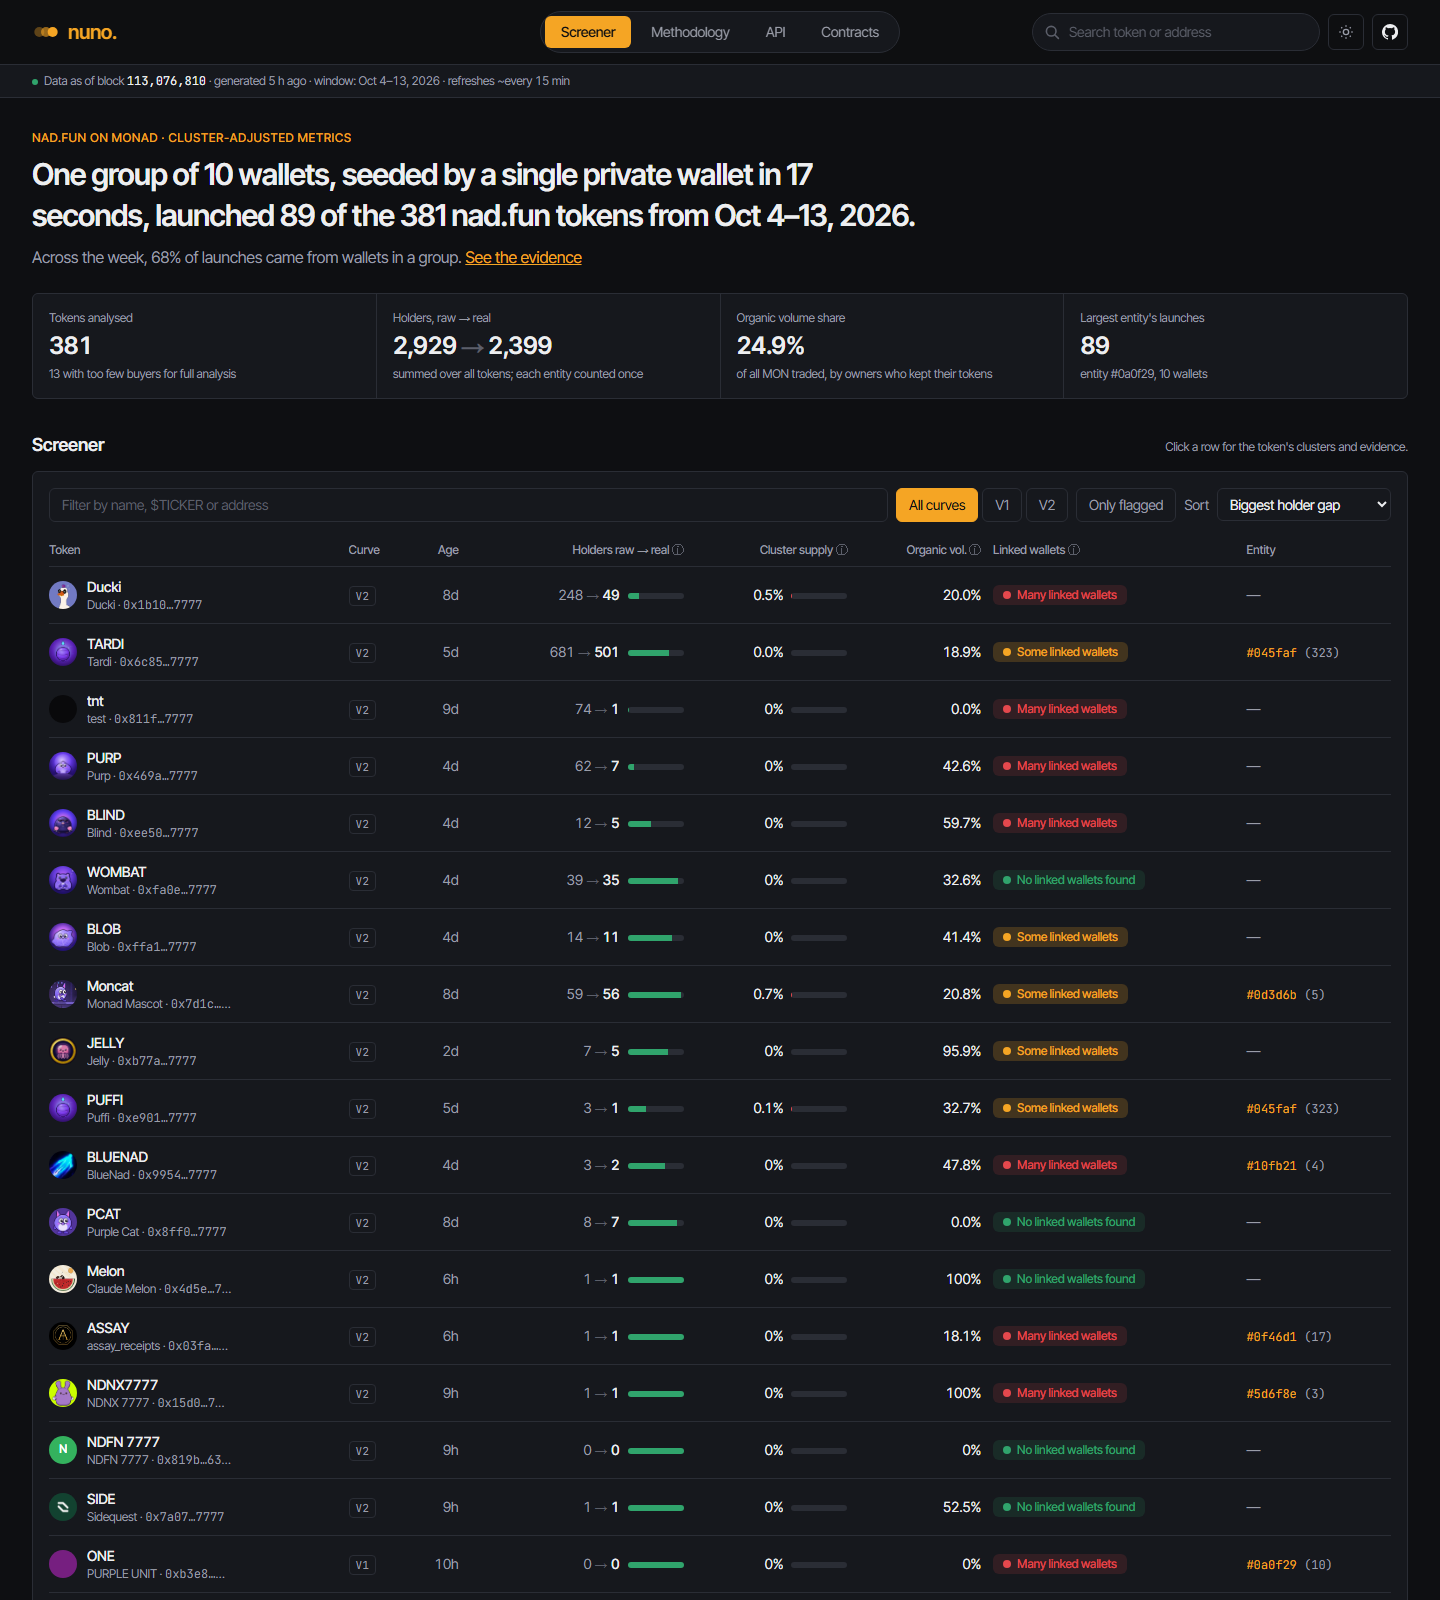
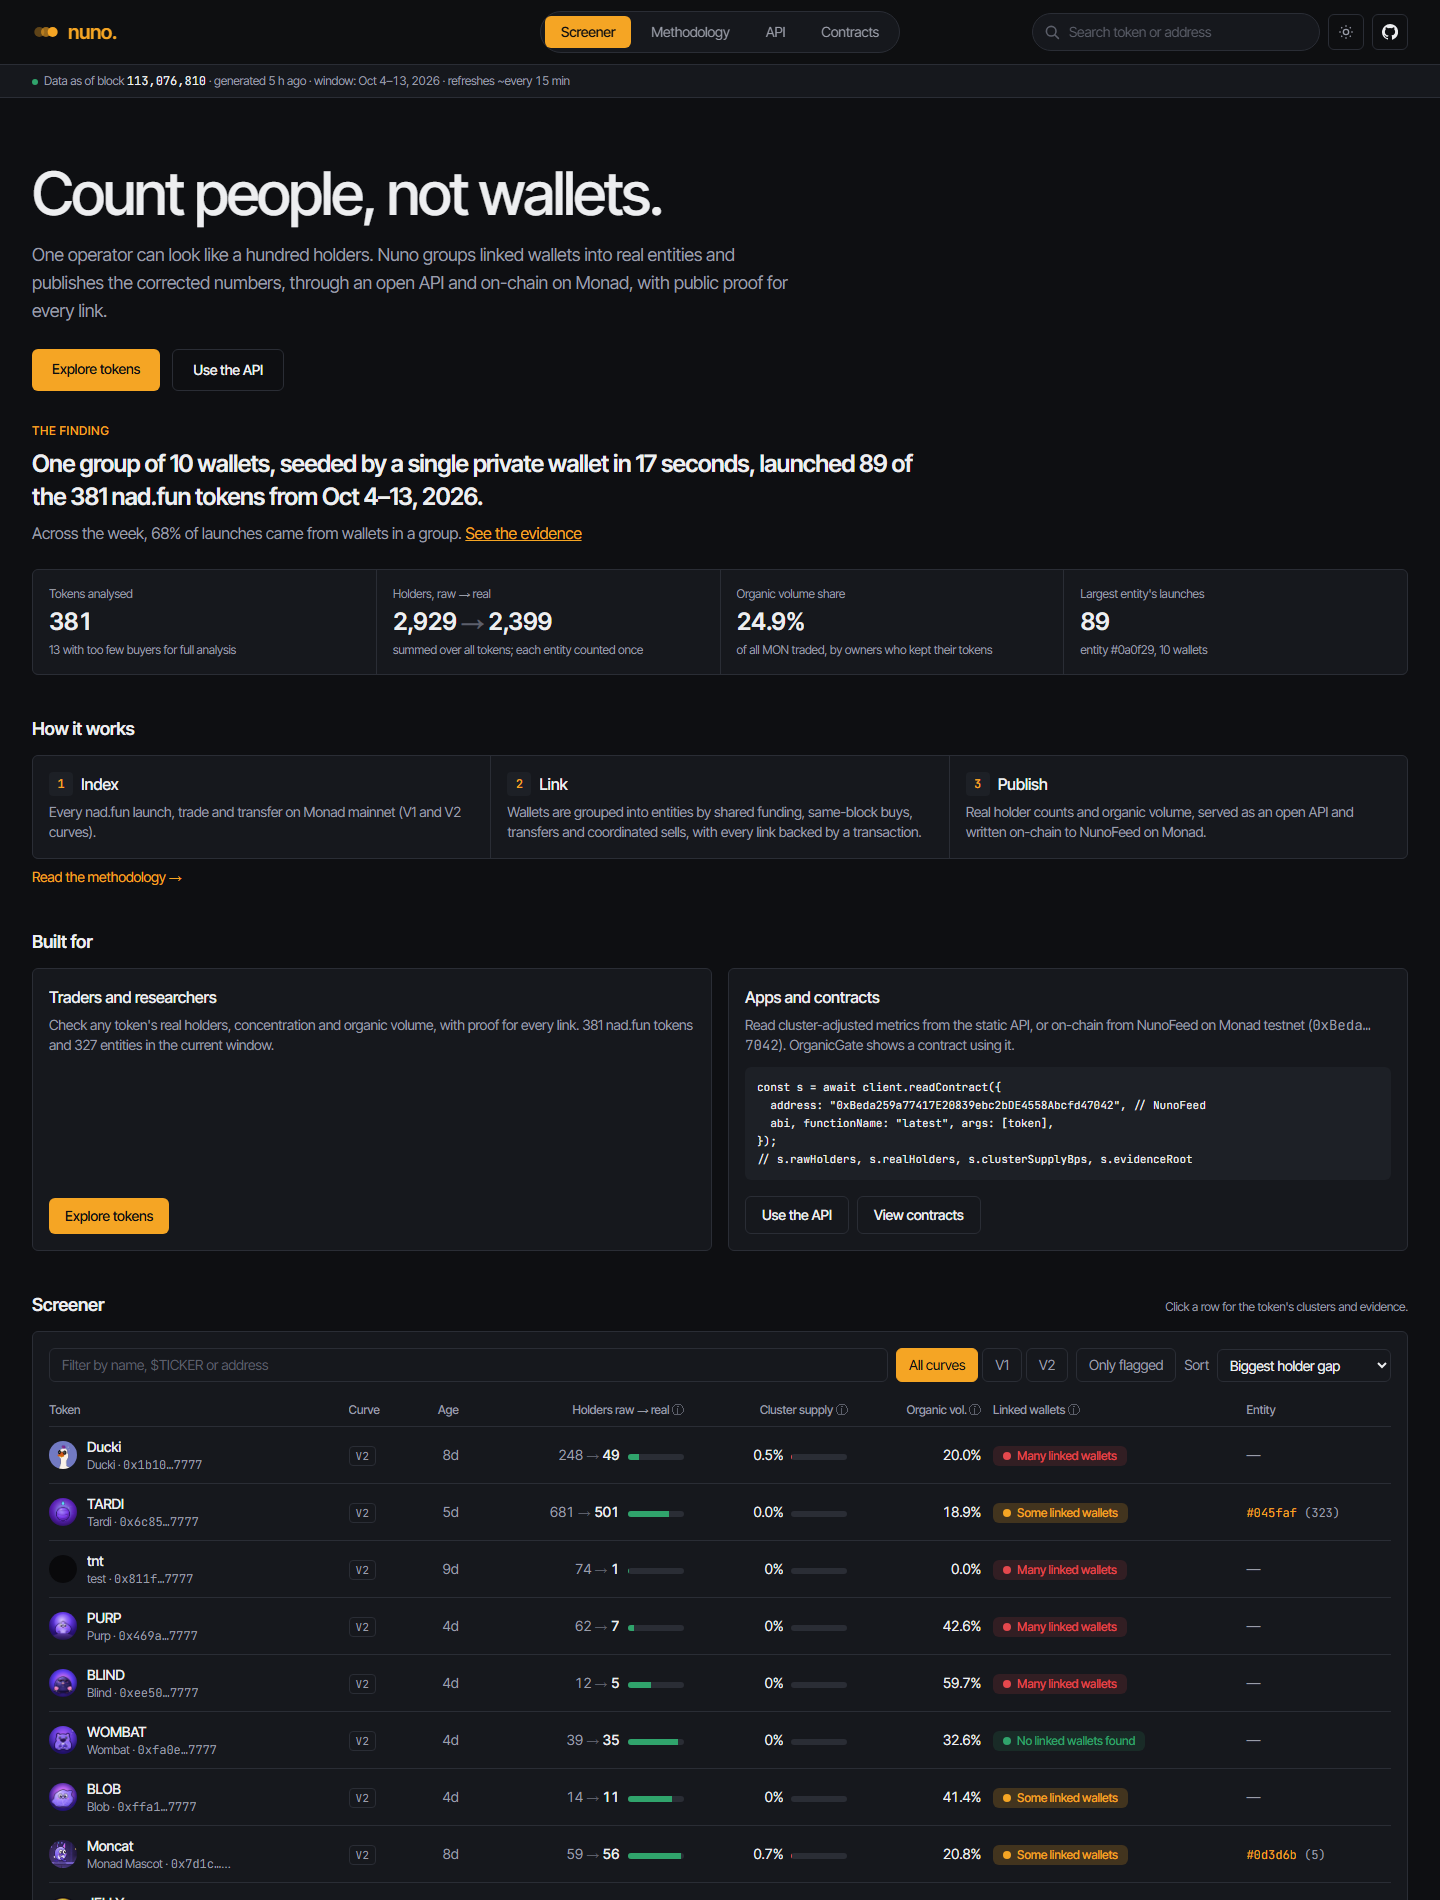
home: hybrid layout with how-it-works and built-for sections

diff --git a/apps/web/app/_views/home.tsx b/apps/web/app/_views/home.tsx
@@ -2,15 +2,23 @@ import Link from "next/link";
 import { api, type Cluster } from "@/lib/api";
 import { computeFinding } from "@/lib/finding";
 import { SUBLINE, TAGLINE } from "@/lib/copy";
-import { pct } from "@/lib/format";
+import { testnetDeployment } from "@/lib/deployments";
+import { pct, short } from "@/lib/format";
 import { rows } from "@/lib/verdict";
 import { SortableTable } from "./sortable";
 
 const n = (v: number) => v.toLocaleString("en-US");
 
+const STEPS: Array<[string, string]> = [
+  ["Index", "Every nad.fun launch, trade and transfer on Monad mainnet (V1 and V2 curves)."],
+  ["Link", "Wallets are grouped into entities by shared funding, same-block buys, transfers and coordinated sells, with every link backed by a transaction."],
+  ["Publish", "Real holder counts and organic volume, served as an open API and written on-chain to NunoFeed on Monad."],
+];
+
 /** Home: one verified headline from the export, four stat tiles, then the screener. */
 export function Home() {
   const meta = api.meta("live");
+  const dep = testnetDeployment();
   const tokens = api.tokens("live");
   const all = rows("live");
   const clusters = api.clusterIds("live").map((id) => api.cluster(id, "live")).filter((c): c is Cluster => c !== null);
@@ -60,7 +68,56 @@ export function Home() {
           ))}
         </dl>
       </section>
-      <section id="screener" aria-labelledby="screener-title" className="mt-8 scroll-mt-28">
+      <section aria-labelledby="how" className="mt-10">
+        <h2 id="how" className="text-lg font-semibold">How it works</h2>
+        <ol className="mt-3 grid gap-px overflow-hidden rounded-md border border-[var(--line)] bg-[var(--line)] md:grid-cols-3">
+          {STEPS.map(([title, body], i) => (
+            <li key={title} className="bg-[var(--surface)] p-4">
+              <p className="flex items-center gap-2 font-medium">
+                <span className="mono flex h-6 w-6 items-center justify-center rounded bg-[var(--panel)] text-xs text-[var(--accent-text)]">{i + 1}</span>
+                {title}
+              </p>
+              <p className="mt-1.5 text-sm text-[var(--muted)]">{body}</p>
+            </li>
+          ))}
+        </ol>
+        <Link href="/methodology/" className="mt-2 inline-block text-sm text-[var(--accent-text)] hover:underline">Read the methodology →</Link>
+      </section>
+
+      <section aria-labelledby="for" className="mt-10">
+        <h2 id="for" className="text-lg font-semibold">Built for</h2>
+        <div className="mt-3 grid gap-4 lg:grid-cols-2">
+          <div className="flex flex-col rounded-md border border-[var(--line)] bg-[var(--surface)] p-4">
+            <p className="font-medium">Traders and researchers</p>
+            <p className="mt-1.5 text-sm text-[var(--muted)]">
+              Check any token&apos;s real holders, concentration and organic volume, with proof for every link. {n(all.length)} nad.fun tokens and{" "}
+              {n(meta?.counts.entities ?? 0)} entities in the current window.
+            </p>
+            <div className="mt-auto pt-4">
+              <a href="#screener" className="inline-block rounded-md bg-[var(--accent)] px-4 py-2 text-sm font-medium text-[var(--c-accent-ink)] hover:opacity-90">Explore tokens</a>
+            </div>
+          </div>
+          <div className="flex min-w-0 flex-col rounded-md border border-[var(--line)] bg-[var(--surface)] p-4">
+            <p className="font-medium">Apps and contracts</p>
+            <p className="mt-1.5 text-sm text-[var(--muted)]">
+              Read cluster-adjusted metrics from the static API, or on-chain from NunoFeed{dep ? <> on Monad testnet (<span className="mono">{short(dep.NunoFeed)}</span>)</> : null}. OrganicGate shows a contract using it.
+            </p>
+            {dep ? (
+              <pre className="mono mt-3 overflow-x-auto rounded-md bg-[var(--panel)] p-3 text-[11px] leading-relaxed">{`const s = await client.readContract({
+  address: "${dep.NunoFeed}", // NunoFeed
+  abi, functionName: "latest", args: [token],
+});
+// s.rawHolders, s.realHolders, s.clusterSupplyBps, s.evidenceRoot`}</pre>
+            ) : null}
+            <div className="mt-auto flex flex-wrap gap-2 pt-4 text-sm">
+              <Link href="/developers/" className="rounded-md border border-[var(--line)] px-4 py-2 font-medium hover:border-[var(--accent)] hover:text-[var(--accent-text)]">Use the API</Link>
+              <Link href="/contracts/" className="rounded-md border border-[var(--line)] px-4 py-2 font-medium hover:border-[var(--accent)] hover:text-[var(--accent-text)]">View contracts</Link>
+            </div>
+          </div>
+        </div>
+      </section>
+
+      <section id="screener" aria-labelledby="screener-title" className="mt-10 scroll-mt-28">
         <div className="mb-3 flex flex-wrap items-baseline justify-between gap-2">
           <h2 id="screener-title" className="text-lg font-semibold">Screener</h2>
           <p className="text-xs text-[var(--muted)]">Click a row for the token&apos;s clusters and evidence.</p>

diff --git a/apps/web/app/_views/nav-links.tsx b/apps/web/app/_views/nav-links.tsx
@@ -6,7 +6,7 @@ import { usePathname } from "next/navigation";
 /** Main navigation links; the current section is highlighted. */
 export function NavLinks({ items }: { items: Array<[string, string]> }) {
   const path = usePathname();
-  const isActive = (href: string) => (href === "/" ? path === "/" || path.startsWith("/token/") || path.startsWith("/cluster/") : path.startsWith(href));
+  const isActive = (href: string) => (href.startsWith("/#") || href === "/" ? path === "/" || path.startsWith("/token/") || path.startsWith("/cluster/") : path.startsWith(href));
   return (
     <>
       {items.map(([href, label]) => (

diff --git a/apps/web/app/layout.tsx b/apps/web/app/layout.tsx
@@ -35,7 +35,7 @@ export const metadata: Metadata = {
 const REPO = "https://github.com/andrew1234-arch/nuno";
 
 const NAV: Array<[string, string]> = [
-  ["/", "Screener"],
+  ["/#screener", "Screener"],
   ["/methodology/", "Methodology"],
   ["/developers/", "API"],
   ["/contracts/", "Contracts"],
